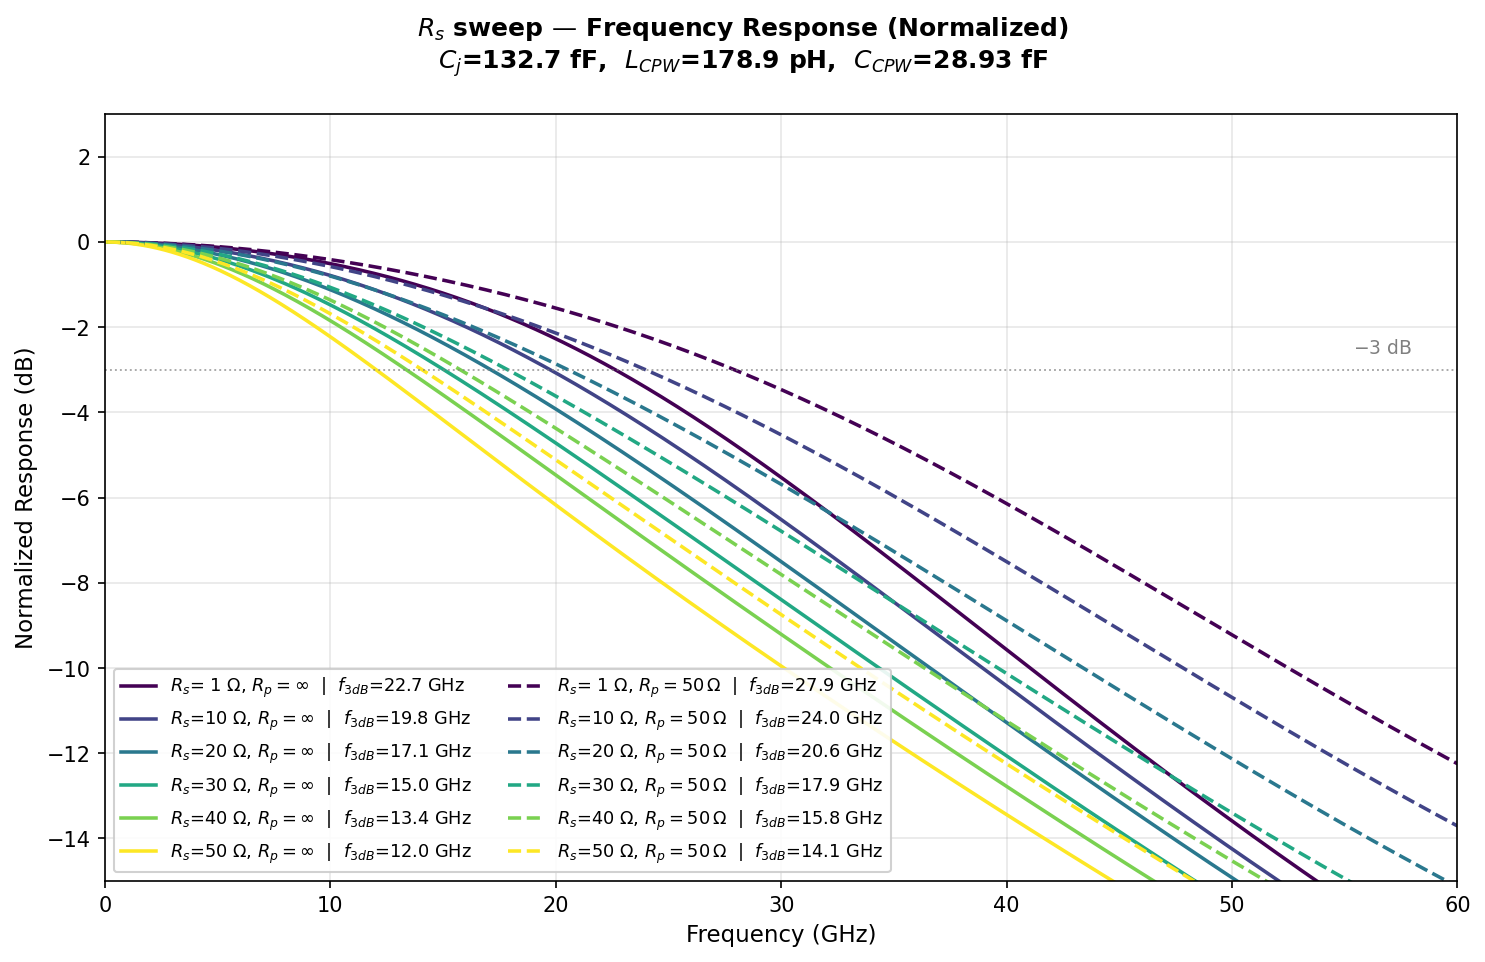
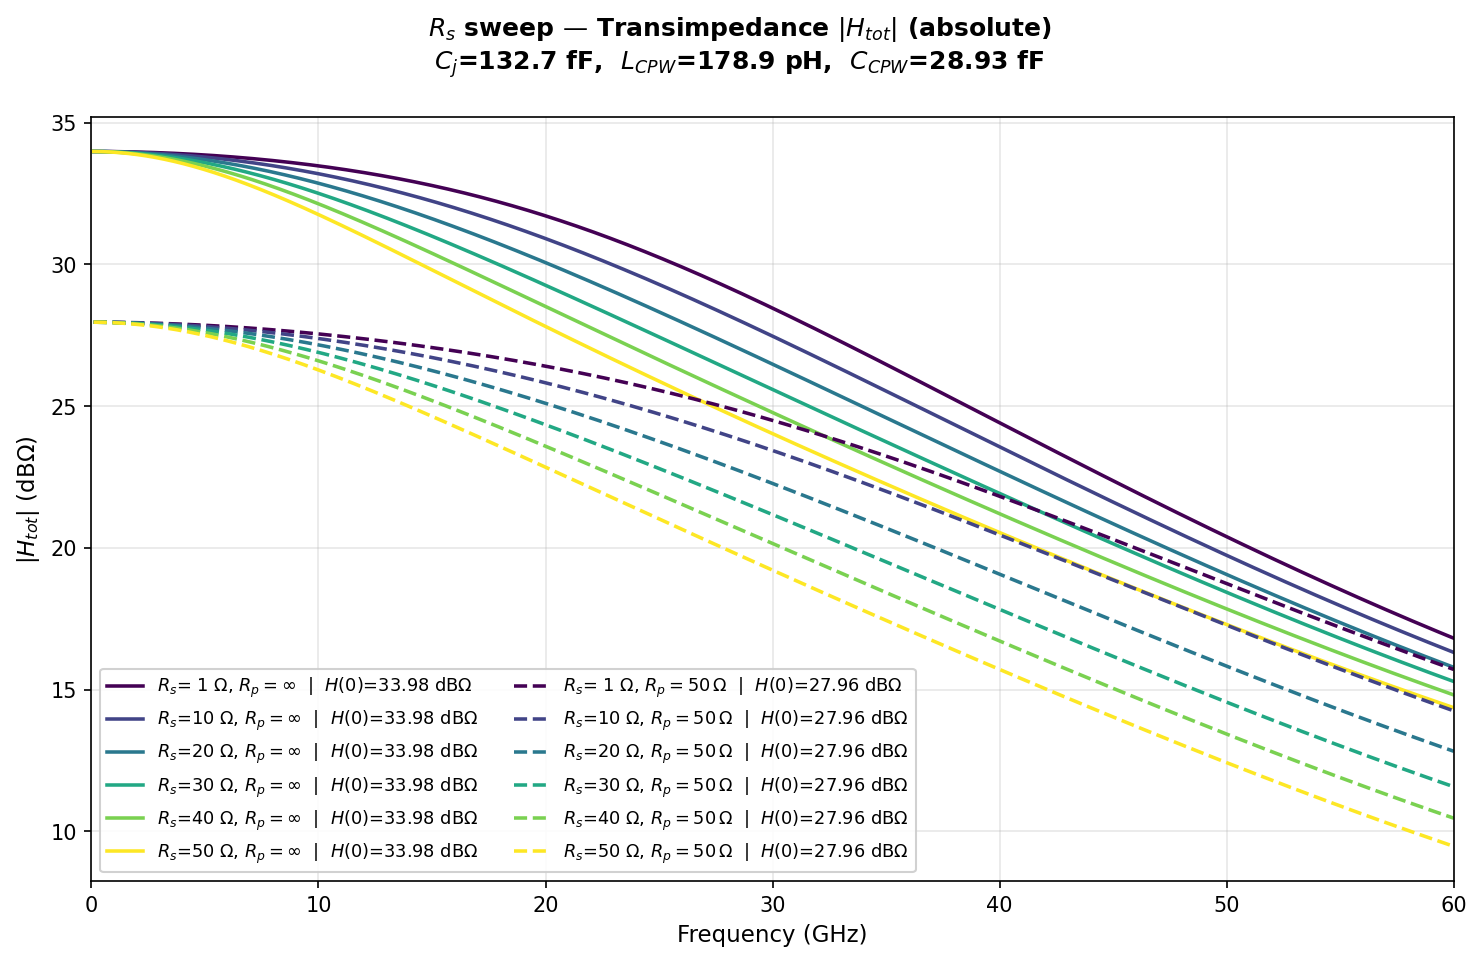
Plot absolute transimpedance instead of normalized response
Show |H_tot| in dB-Ohm so the DC level differences between Rp=inf
and Rp=50 Ohm (and across Rs values) are visible, instead of all
curves starting at 0 dB.

https://claude.ai/code/session_01Ai2cJaAR1a4hKpeYKcLV7K

diff --git a/Rs_sweep_Rp_compare.py b/Rs_sweep_Rp_compare.py
@@ -76,14 +76,15 @@ f = np.linspace(0.1e9, 60e9, 4000)
 w = 2*np.pi*f
 
 # ── Compute ─────────────────────────────────────────────────────────
-results = {}      # results[Rp][Rs] = (Hd_dB, f3dB)
+results = {}      # results[Rp][Rs] = (H_dBohm, f3dB_norm)
 for Rp, _ in Rp_cases:
     results[Rp] = {}
     for Rs in Rs_list:
         Ht = H_total(w, Rs, Rp)
-        Hd = 20*np.log10(np.abs(Ht) / np.abs(Ht[0]))
-        f3 = find_3dB(f, Hd)
-        results[Rp][Rs] = (Hd, f3)
+        H_abs_dB = 20*np.log10(np.abs(Ht))            # absolute |H| in dBΩ
+        Hd_norm  = 20*np.log10(np.abs(Ht)/np.abs(Ht[0]))
+        f3 = find_3dB(f, Hd_norm)
+        results[Rp][Rs] = (H_abs_dB, f3)
 
 # ── Plot (single overlay) ──────────────────────────────────────────
 cmap = plt.cm.viridis
@@ -92,7 +93,7 @@ ls_map = {np.inf: '-', 50.0: '--'}     # solid = no shunt, dashed = Rp=50Ω
 
 fig, ax = plt.subplots(figsize=(10, 6.5))
 fig.suptitle(
-    r'$R_s$ sweep — Frequency Response (Normalized)' '\n'
+    r'$R_s$ sweep — Transimpedance $|H_{tot}|$ (absolute)' '\n'
     rf'$C_j$={C_PD*1e15:.1f} fF,  $L_{{CPW}}$={L_CPW*1e12:.1f} pH,  '
     rf'$C_{{CPW}}$={C_CPW*1e15:.2f} fF',
     fontsize=12, fontweight='bold')
@@ -100,18 +101,13 @@ fig.suptitle(
 for Rp, _ in Rp_cases:
     for ci, Rs in enumerate(Rs_list):
         Hd, f3 = results[Rp][Rs]
-        f3_str = f'{f3:.1f}' if not np.isnan(f3) else '>60'
         rp_lbl = r'$R_p{=}\infty$' if np.isinf(Rp) else r'$R_p{=}50\,\Omega$'
         ax.plot(f/1e9, Hd, color=colors[ci], lw=1.7, ls=ls_map[Rp],
-                label=rf'$R_s$={Rs:>2} Ω, {rp_lbl}  |  $f_{{3dB}}$={f3_str} GHz')
+                label=rf'$R_s$={Rs:>2} Ω, {rp_lbl}  |  $H(0)$={Hd[0]:.2f} dBΩ')
 
-ax.axhline(-3, color='gray', ls=':', lw=0.9, alpha=0.7)
-ax.text(58, -2.7, '$-$3 dB', fontsize=9, color='gray',
-        ha='right', va='bottom')
 ax.set_xlabel('Frequency (GHz)', fontsize=11)
-ax.set_ylabel('Normalized Response (dB)', fontsize=11)
+ax.set_ylabel(r'$|H_{tot}|$ (dBΩ)', fontsize=11)
 ax.set_xlim(0, 60)
-ax.set_ylim(-15, 3)
 ax.grid(True, alpha=0.3)
 ax.legend(fontsize=8.5, loc='lower left', framealpha=0.9, ncol=2)
 
